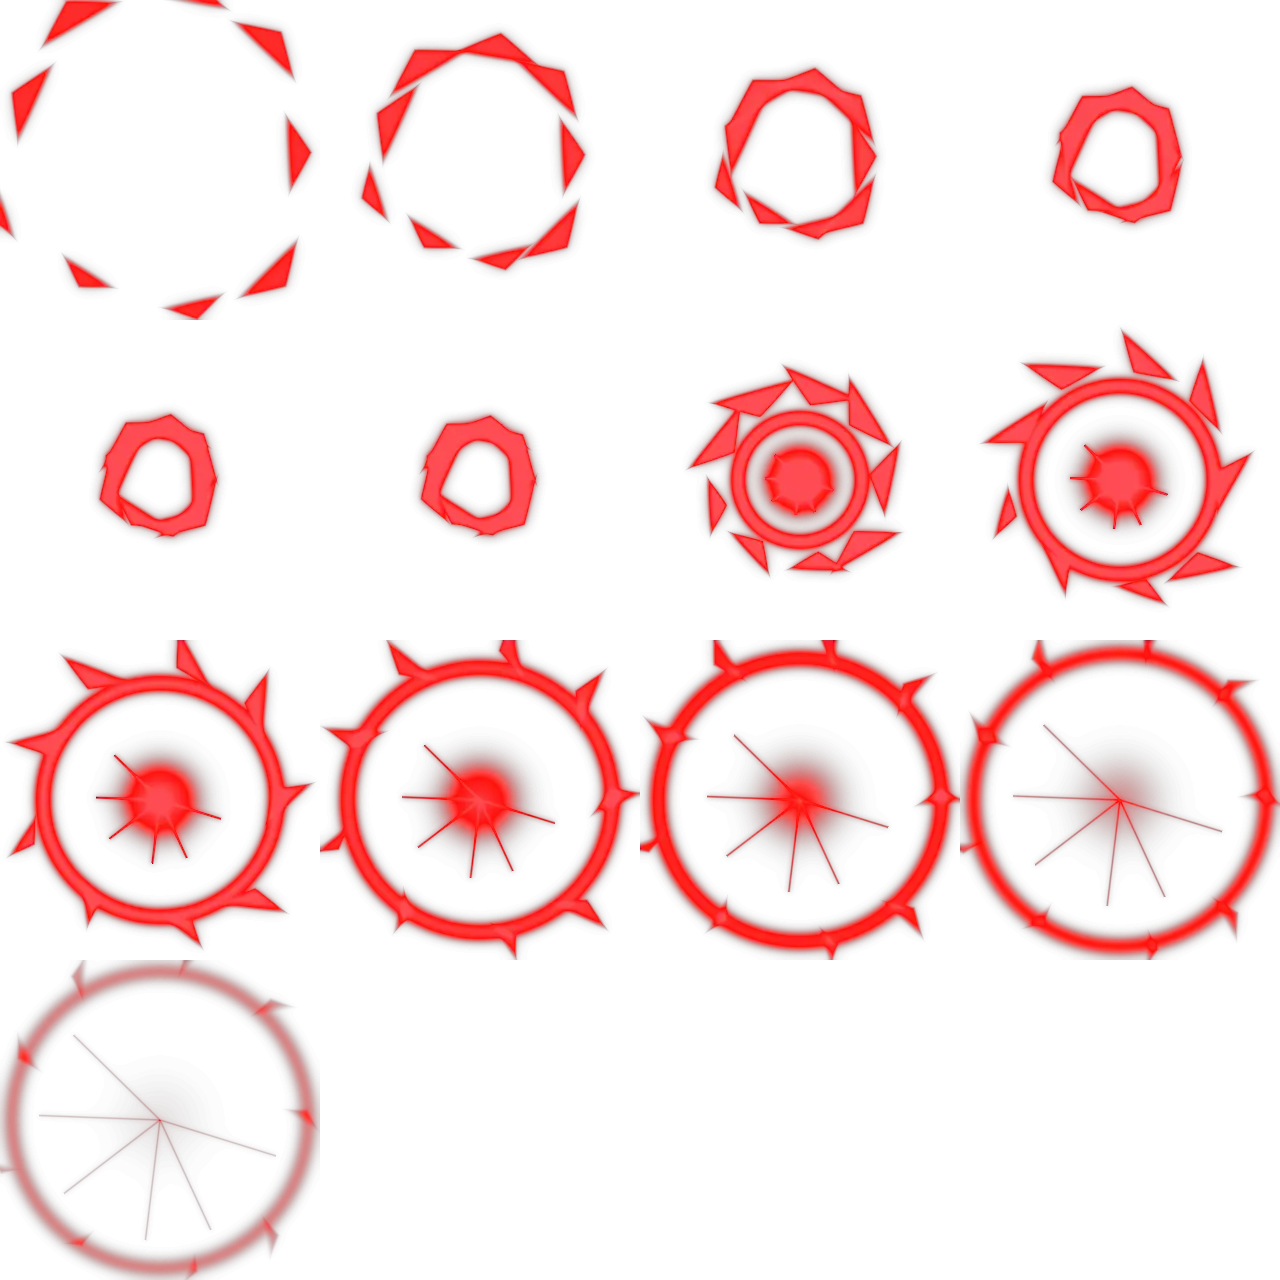
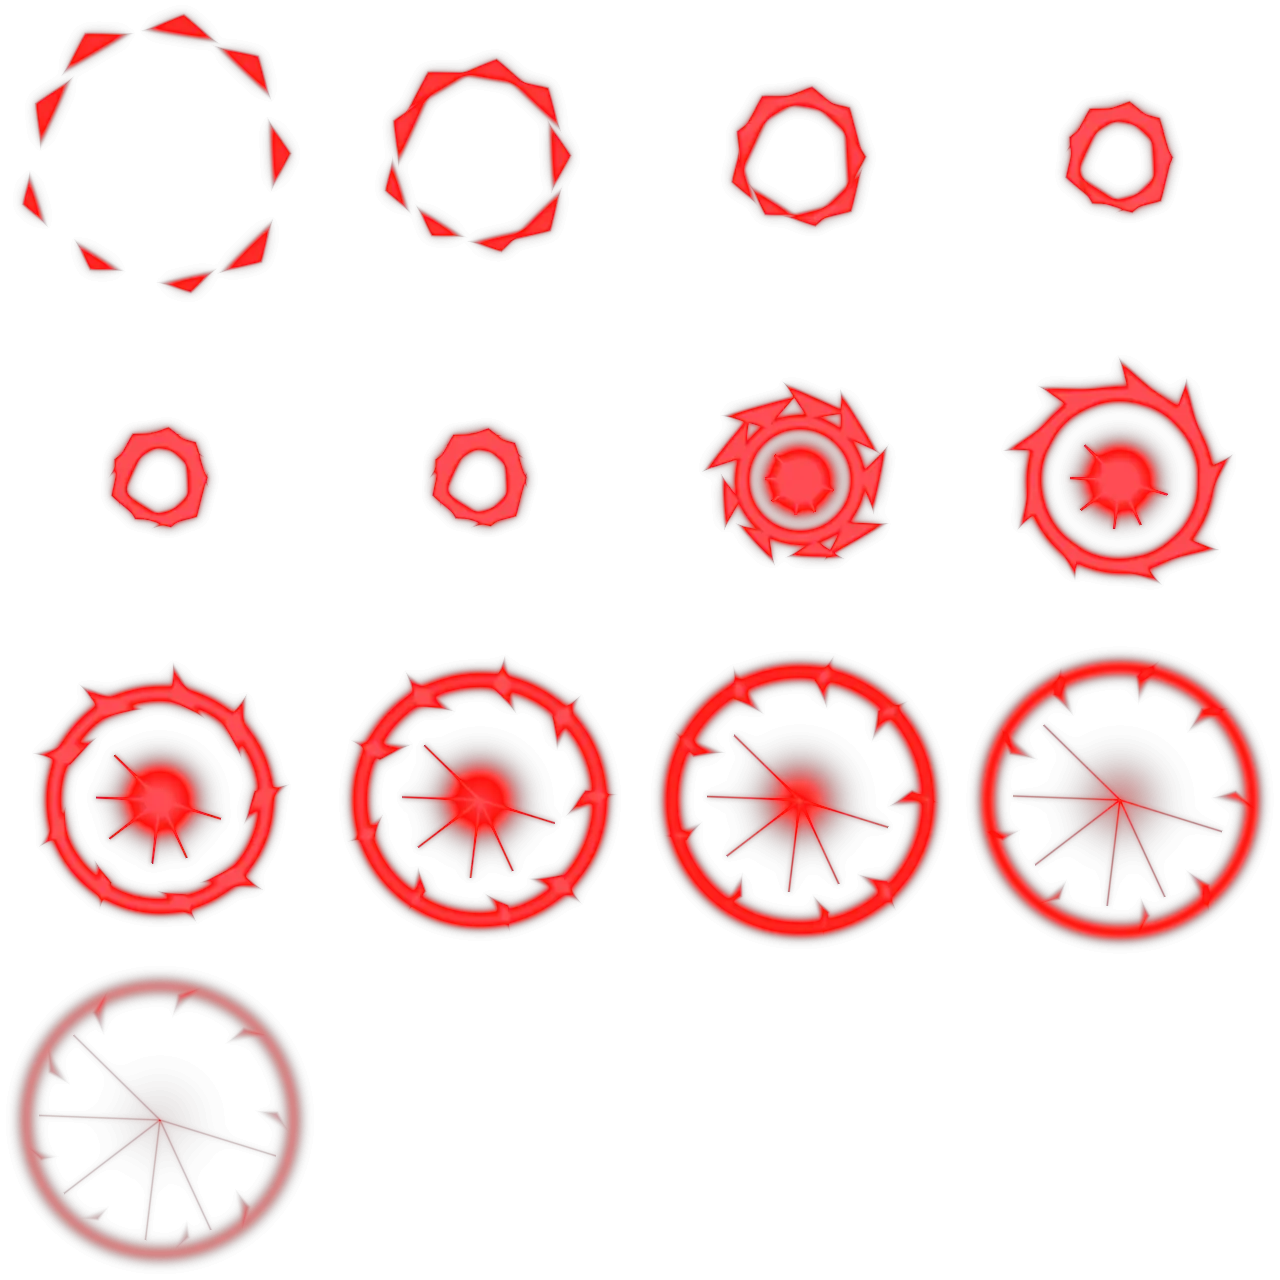
Fix Blood / Sketch effect sheets: seams, clipping, blown-out impact
- heavy_spin: no hard seam (rounded leading edge, tapering comet tail), kept inside the frame.
- crush_blow: shards no longer clipped at the frame edge.
- flick_swing: arc fits the frame, sized to the fan hitbox (size = reach * 2.6), translucent paint wash.
- The heavy blow no longer stacks the generic heavy-hit sprites/ripples on its own slam (white-out).

Claude-Session: https://claude.ai/code/session_013of82ajRnBL7BbPzCXSFar

diff --git a/src/render/battle-view.ts b/src/render/battle-view.ts
@@ -299,9 +299,11 @@ export class BattleView {
         else if (e.b & HF_OTG) this.vfx.text('DOWN ATTACK', x, y - 90, col, 24, 44, -0.7);
         if (combo >= 2) this.vfx.text(`${combo} HIT`, toPx(s.f[1 - e.who].x), toPx(s.f[1 - e.who].y) - 120, col, 26, 40, -0.4);
         const ang = Math.atan2(toPx(s.f[1 - e.who].y) - toPx(s.f[e.who].y), toPx(s.f[1 - e.who].x) - toPx(s.f[e.who].x));
-        this.fx.spawn(heavy ? 'hit_heavy_t' : 'hit_t', { x, y, size: (heavy ? 3.2 : 2.2) * PX, tint: col, rot: ang, alpha: 0.8 });
+        // (the heavy blow has its own slam below: the generic heavy-hit sprites on top of it would white out the screen)
+        const ownHeavy = this.moveIs(e.who, 'driveHeavy');
+        if (!ownHeavy) this.fx.spawn(heavy ? 'hit_heavy_t' : 'hit_t', { x, y, size: (heavy ? 3.2 : 2.2) * PX, tint: col, rot: ang, alpha: 0.8 });
         if (e.b & HF_COUNTER) this.fx.spawn('hit_heavy_t', { x, y, size: 2.6 * PX, tint: 0xffd060, rot: ang + 0.4 });
-        if (heavy) {
+        if (heavy && !ownHeavy) {
           // 3rd hit: a ripple bursts out from the ATTACKER, plus dust where the defender lands
           const ax = toPx(s.f[e.who].x);
           const ay = toPx(s.f[e.who].y);
@@ -320,8 +322,7 @@ export class BattleView {
           this.addShake(8);
         }
         if (this.moveIs(e.who, 'driveHeavy')) {
-          this.fx.spawn('smash_t', { x, y, size: 3.6 * PX, tint: col, alpha: 0.5 });
-          this.fx.spawn('ripple_t', { x: toPx(s.f[e.who].x), y: toPx(s.f[e.who].y), size: 4.5 * PX, tint: col, alpha: 0.35 });
+          this.fx.spawn('smash_t', { x, y, size: 3.4 * PX, tint: col, alpha: 0.4 });
           this.vfx.ring(x, y, 0xffffff, 20, 240, 20, 10);
           this.flashScreen(col, 0.12);
           this.wave(x, y, 1.4);
@@ -1089,7 +1090,7 @@ export class BattleView {
         case 'flick':
           // v1.7 a ribbon of paint whipped out along the thrust (the ink colours: cyan → violet → pink)
           once(f.sf >= m.S, () => {
-            this.fx.spawn('flick_swing', { x, y, size: reach * 2.08, rot: face, flipY: m.sweepFrom < 0, alpha: 0.85, follow: pos });
+            this.fx.spawn('flick_swing', { x, y, size: reach * 2.6, rot: face, flipY: m.sweepFrom < 0, alpha: 0.85, follow: pos });
             this.addShake(4);
           });
           break;

diff --git a/tools/fx/gen_fx.py b/tools/fx/gen_fx.py
@@ -1093,22 +1093,32 @@ def flick_swing(size=448, n=12):
         for j2 in range(46):
             q = j2 / 45                                                    # 0 at the tail … 1 at the head
             a = tail - span * q
-            rad_arc = 0.84 + 0.04 * math.sin(9 * q + k * 0.6) - 0.05 * (1 - q)
-            thick = 0.028 + 0.1 * q ** 0.8 * (1 - 0.35 * t)
+            rad_arc = 0.72 + 0.03 * math.sin(9 * q + k * 0.6) - 0.04 * (1 - q)
+            thick = 0.04 + 0.1 * q ** 0.8 * (1 - 0.3 * t)
             blobs.append((rad_arc * math.cos(a), rad_arc * math.sin(a), thick))
         # a rolling bulb at the head
-        blobs.append((0.84 * math.cos(head), 0.84 * math.sin(head), 0.15 * (1 - 0.3 * t)))
+        blobs.append((0.72 * math.cos(head), 0.72 * math.sin(head), 0.12 * (1 - 0.3 * t)))
         # drops flung outward from the leading edge
         for pos, rad, spd in drops:
             life = np.clip((t - 0.1 - pos * 0.3) / 0.6, 0, 1)
             if life <= 0:
                 continue
             a = head + (tail - head) * pos * 0.5
-            d = 0.82 + 0.16 * ease_out(life) * (0.5 + spd * 3)
+            d = 0.74 + 0.16 * ease_out(life) * (0.5 + spd * 2)
             blobs.append((d * math.cos(a), d * math.sin(a), rad * (1 - life * 0.6)))
         field = _goo(x, y, blobs)
         u = np.clip(0.5 - th / (2 * half) * 0.5, 0, 1)
-        frames.append(_paint_rgba(field, u, fade))
+        img = _paint_rgba(field, u, fade)
+        # the wash: a soft translucent sector of paint the ribbon has just swept over (reads as a fan, not a comma)
+        lo_a, hi_a = head, tail
+        inside = (th >= lo_a) & (th <= hi_a) & (r > 0.25) & (r < 0.72 + 0.03 * np.sin(th * 9 + k))
+        wash = blur(inside.astype(np.float32), 4) * (0.16 + 0.12 * (1 - t)) * fade * smooth(0.25, 0.6, r)
+        col = _paint_color(np.clip(0.5 - th / (2 * half) * 0.5, 0, 1))
+        a0 = img[..., 3]
+        a1 = np.clip(a0 + wash * (1 - a0), 0, 1)
+        img[..., :3] = (img[..., :3] * a0[..., None] + col * (wash * (1 - a0))[..., None]) / np.maximum(a1, 1e-4)[..., None]
+        img[..., 3] = a1
+        frames.append(img)
     save('flick_swing', frames)
 
 
@@ -1162,19 +1172,20 @@ def heavy_spin(size=384, n=14):
         head = math.pi - 2 * math.pi * p
         rel = (th - head) % (2 * math.pi)
         covered = rel <= 2 * math.pi * p + 0.02
-        tail = np.exp(-rel / (2 * math.pi) * (1.6 + 2.5 * (1 - fade)))
-        band = smooth(0.42, 0.62, r) * (1 - smooth(0.93, 1.0, r))                # a wide, heavy band
-        edge = gauss(r - 0.95, 0.045)
+        tail = np.exp(-rel / (2 * math.pi) * (4.2 + 2.0 * (1 - fade))) * smooth(0.0, 0.5, rel)   # long fade, rounded leading edge (no seam)
+        inner = 0.34 + 0.46 * np.minimum(1.0, rel / (2 * math.pi)) ** 0.8         # thick at the head, tapering to a thin tail: a comet
+        band = smooth(inner, inner + 0.16, r) * (1 - smooth(0.86, 0.94, r))
+        edge = gauss(r - 0.88, 0.04)
         torn = 0.55 + 0.6 * tex                                                    # ragged, torn body
         body = covered * band * tail * torn
         tip = covered * edge * tail * 1.9
         inten = (body * 1.05 + tip) * fade
         for a, ln in sparks:                                                       # embers spat off the edge
             ang = head + a * 0.4
-            d = 0.96 + 0.28 * ease_out(min(1.0, (k - 1) / 8)) * ln
+            d = 0.9 + 0.08 * ease_out(min(1.0, (k - 1) / 8)) * ln
             ex, ey = math.cos(ang) * d, math.sin(ang) * d
             inten += gauss(np.sqrt((x - ex) ** 2 + (y - ey) ** 2), 0.02) * (1 - k / n) * 1.5 * (k > 1)
-        inten += gauss(r - (0.92 + 0.05 * k / n), 0.03) * (0.7 * fade if k >= 4 else 0)   # chasing ring
+        inten += gauss(r - (0.86 + 0.04 * k / n), 0.03) * (0.5 * fade if k >= 4 else 0)   # chasing ring
         i = np.clip(glowify(inten, 5, 0.7), 0, 2.2)
         rch = np.clip(i * 1.5, 0, 1)
         gch = np.clip(i * 0.4 - 0.2, 0, 1) * 0.5
@@ -1189,7 +1200,7 @@ def crush_blow(size=320, n=14):
     x, y, r, th = grid(size)
     frames = []
     g = np.random.default_rng(1313)
-    shards = [(j * 2 * math.pi / 9 + g.uniform(-0.15, 0.15), g.uniform(0.9, 1.15), g.uniform(0.09, 0.14)) for j in range(9)]
+    shards = [(j * 2 * math.pi / 9 + g.uniform(-0.15, 0.15), g.uniform(0.78, 0.9), g.uniform(0.08, 0.12)) for j in range(9)]
     for k in range(n):
         t = k / (n - 1)
         inten = np.zeros_like(r)
@@ -1202,9 +1213,9 @@ def crush_blow(size=320, n=14):
         else:                                                                        # crack + burst
             tt = (t - 0.4) / 0.6
             inten += gauss(r, 0.13 + 0.14 * tt) * (1 - tt) ** 2 * 2.6
-            inten += gauss(r - (0.18 + 0.75 * ease_out(tt)), 0.03 + 0.03 * tt) * (1 - tt) * 1.7
+            inten += gauss(r - (0.18 + 0.66 * ease_out(tt)), 0.03 + 0.03 * tt) * (1 - tt) * 1.7
             for a, r0, sz in shards:
-                d = 0.32 + 0.66 * ease_out(tt) * r0
+                d = 0.3 + 0.55 * ease_out(tt) * r0
                 cx, cy = math.cos(a) * d, math.sin(a) * d
                 inten += _tri(x - cx, y - cy, a + tt * 2.5, sz * (1 - 0.5 * tt)) * (1 - tt) * 1.6
             for a, r0, sz in shards[:6]:
